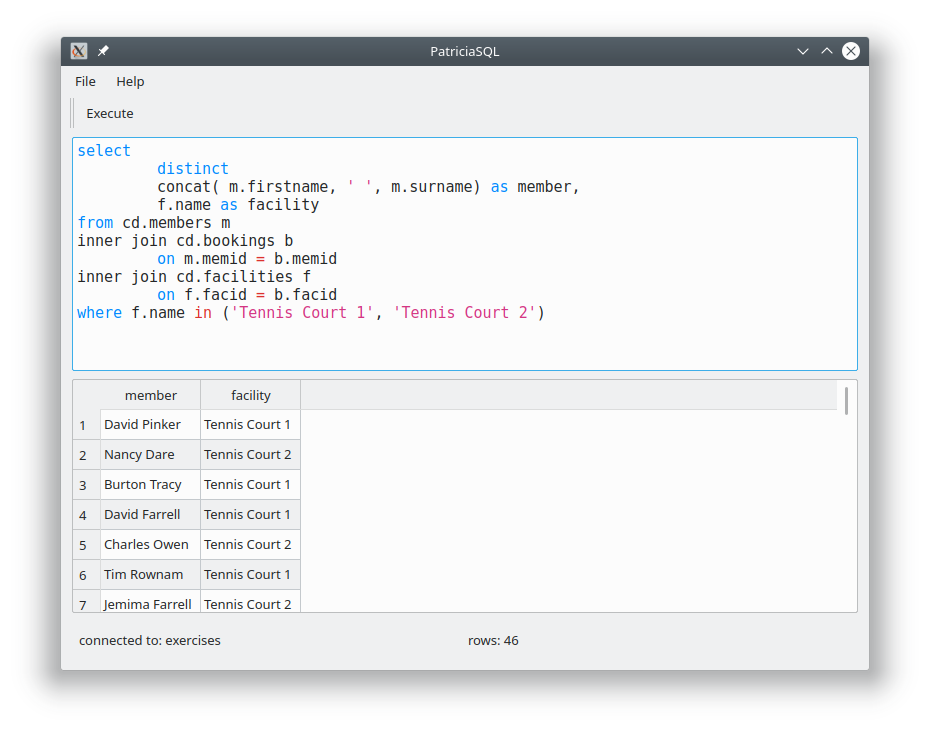
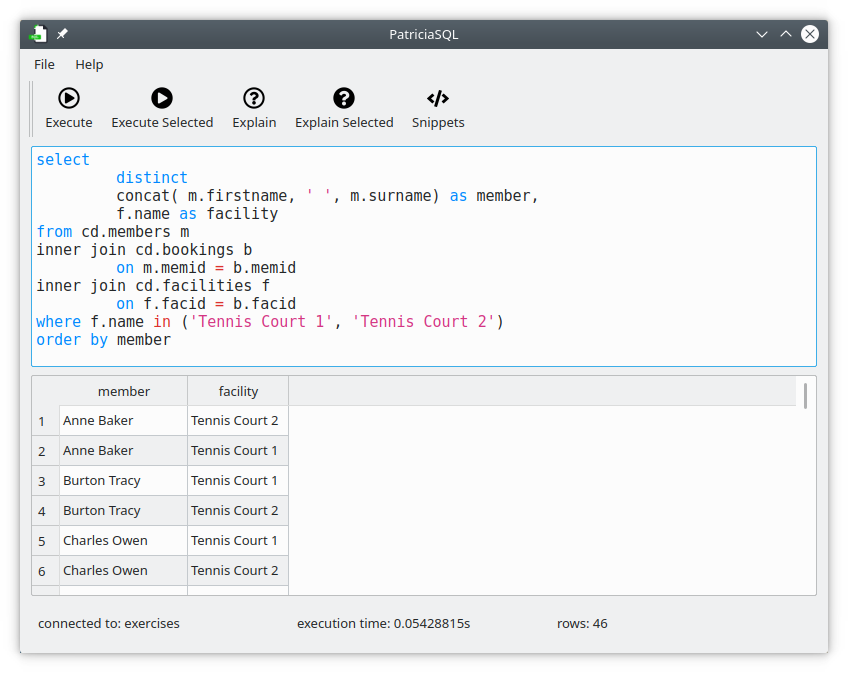
updated screenshots

diff --git a/README.md b/README.md
@@ -11,6 +11,15 @@ Screenshots:
 
 ![PatriciaSQL Main Window](PatriciaSQL-main.png)
 
+
+![PatriciaSQL_Main_Window_Explain](PatriciaSQL-main-explain.png)
+
+![Query_Selected](PatriciaSQL-main-execute-selected.png)
+
+![Explain_Selected](PatriciaSQL-main-explain-selected.png)
+
+Query explain
+
 ![PatriciaSQL - connection settings](PatriciaSQL-connection_settings.png)
 
 
